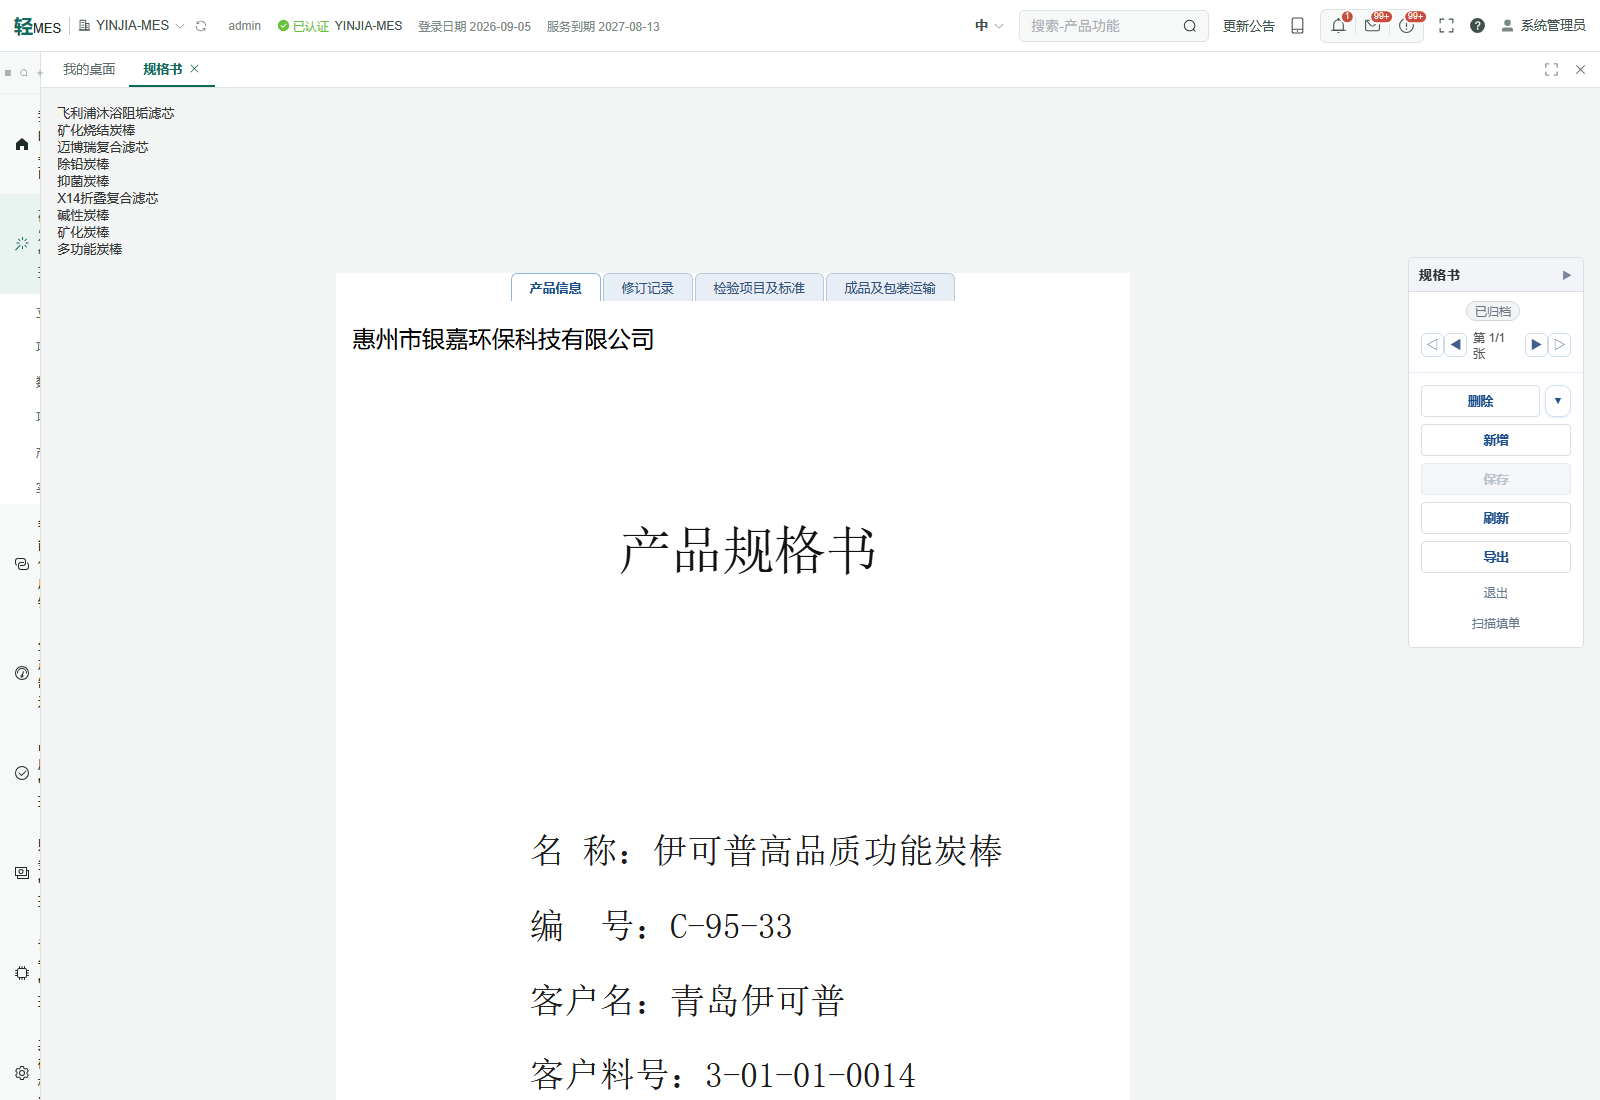
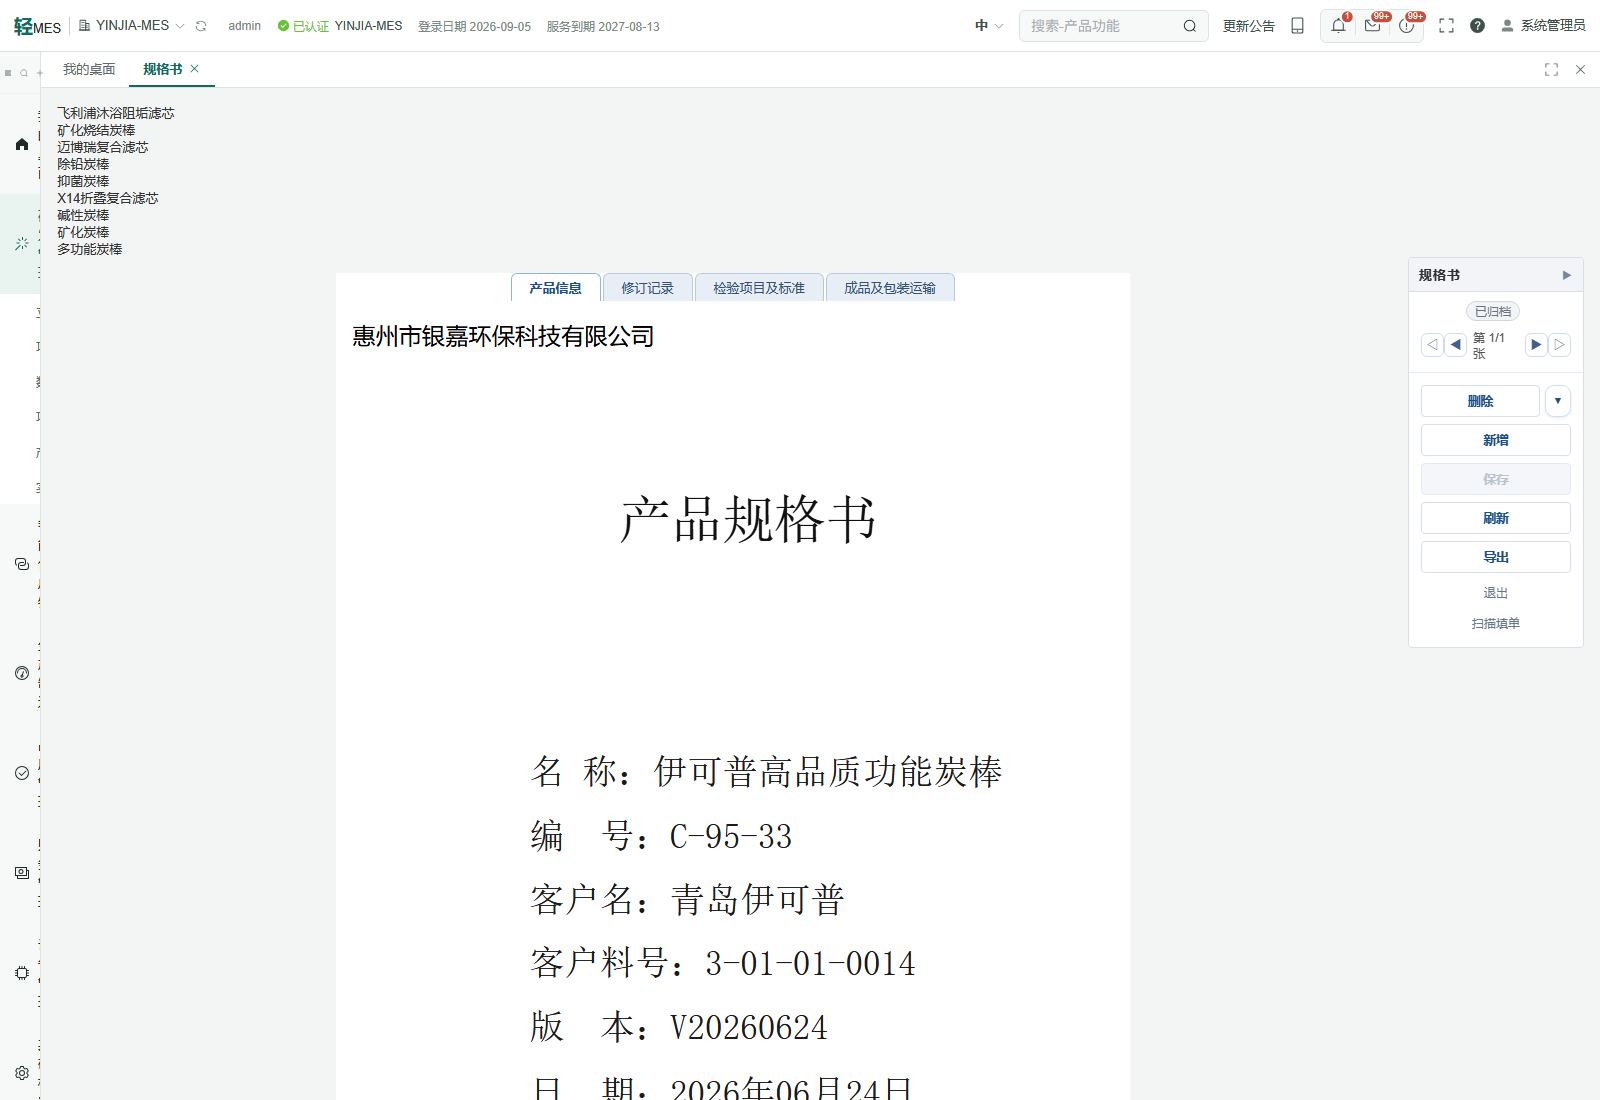
fix: 规格书封面打印不再溢出到第二页——封面高度改严格 A4(794×1123,纵向位置/行高用独立缩放 --cvy 压入 A4,横向字号/列宽仍按 --cok);签名表三框上下缩短(表头 59→44/值行 62→48 设计px,高 136→89px);打印整体 zoom 0.92(打印高 1033px≤一页 1062px);实测签名表底边 1037≤1123、一页装下

diff --git a/frontend/src/core/views/RecordSheetPanels.vue b/frontend/src/core/views/RecordSheetPanels.vue
@@ -27,7 +27,7 @@
              公司左上 | 大标题居中偏右(设计图标题中心 367.5/708)| 6 条字段线 | 窄居中签名表 -->
         <template v-if="cfg.cover">
           <tr><td :colspan="nCols" class="rsp-cover-td">
-            <div class="rsp-cover-page" :style="{ height: coverPageH + 'px', '--cok': coverK }">
+            <div class="rsp-cover-page" :style="{ height: coverPageH + 'px', '--cok': coverK, '--cvy': coverVy }">
               <div class="rsp-cover-company">惠州市银嘉环保科技有限公司</div>
               <div class="rsp-cover-title">{{ tt(cfg.staticTitle || '产品规格书') }}</div>
               <div v-for="(fd, fi) in cfg.cover.fields" :key="'cf' + fi" class="rsp-cover-line" :style="{ top: coverLineTop(fi) }">
@@ -545,12 +545,15 @@ const gridW = computed(() => effGrid.value.reduce((s, w) => s + w, 0))
 const COVER_W = 708
 const COVER_H = 1173
 const coverK = computed(() => gridW.value / COVER_W)
-const coverPageH = computed(() => Math.round(COVER_H * coverK.value))
+/** 封面高度 = 真实 A4(210×297mm):设计画布 1173/708≈1.657 比 A4(1.414)长,按画布高等比
+ *  会在打印时溢出到第二页;纵向位置/行高用独立缩放 coverVy 压入 A4 高度,横向(字号/列宽)仍用 coverK */
+const coverPageH = computed(() => Math.round(gridW.value * (297 / 210)))
+const coverVy = computed(() => coverPageH.value / COVER_H)
 /** 字段行顶部(设计 px,行高 46 → ink 中心 482.5/549.5/617/683/750/817.5 = 设计墨迹中心) */
 const COVER_LINE_TOPS = [460, 527, 594, 660, 727, 795]
 function coverLineTop(i) {
   const y = COVER_LINE_TOPS[i] ?? (COVER_LINE_TOPS[0] + i * 67)
-  return (y * coverK.value).toFixed(1) + 'px'
+  return (y * coverVy.value).toFixed(1) + 'px'
 }
 const COVER_SIGN_W = [143, 157, 172] // x 132..275..432..604 (设计图实测)
 const coverSignW = COVER_SIGN_W
@@ -1256,7 +1259,7 @@ function chartOf(dt) {
 .rsp-cover-company {
   position: absolute;
   left: calc(15px * var(--cok));
-  top: calc(15px * var(--cok));
+  top: calc(15px * var(--cvy));
   font-family: 'Microsoft YaHei', '微软雅黑', sans-serif;
   font-size: calc(20.7px * var(--cok));
   line-height: 1;
@@ -1268,7 +1271,7 @@ function chartOf(dt) {
   position: absolute;
   left: calc(367.5px * var(--cok));
   transform: translateX(-50%);
-  top: calc(191px * var(--cok));
+  top: calc(191px * var(--cvy));
   font-family: 'SimSun', 'Songti SC', serif;
   font-size: calc(47.3px * var(--cok));
   font-weight: 400;
@@ -1284,7 +1287,7 @@ function chartOf(dt) {
   left: calc(173px * var(--cok));
   display: flex;
   align-items: center;
-  height: calc(46px * var(--cok));
+  height: calc(46px * var(--cvy));
   font-family: 'SimSun', 'Songti SC', serif;
   font-size: calc(31.3px * var(--cok));
   color: #1a1a1a;
@@ -1297,12 +1300,12 @@ function chartOf(dt) {
 }
 .rsp-cover-input {
   flex: 1;
-  height: calc(46px * var(--cok));
+  height: calc(46px * var(--cvy));
 }
 .rsp-cover-input :deep(.el-input__inner) {
   font-size: calc(31.3px * var(--cok));
   font-family: 'SimSun', 'Songti SC', serif;
-  line-height: calc(46px * var(--cok));
+  line-height: calc(46px * var(--cvy));
   padding: 0;
 }
 .rsp-cover-val {
@@ -1312,7 +1315,7 @@ function chartOf(dt) {
 .rsp-sign-t {
   position: absolute;
   left: calc(132px * var(--cok));
-  top: calc(990px * var(--cok));
+  top: calc(990px * var(--cvy));
   width: calc(473px * var(--cok));
   border-collapse: collapse;
   table-layout: fixed;
@@ -1322,7 +1325,7 @@ function chartOf(dt) {
   border: calc(1.5px * var(--cok)) solid #000;
 }
 .rsp-sign-th {
-  height: calc(59px * var(--cok));
+  height: calc(44px * var(--cvy));
   font-size: calc(16px * var(--cok));
   font-weight: 400;
   font-family: 'SimSun', 'Songti SC', serif;
@@ -1332,7 +1335,7 @@ function chartOf(dt) {
   vertical-align: middle;
 }
 .rsp-sign-td {
-  height: calc(62px * var(--cok));
+  height: calc(48px * var(--cvy));
   padding: 0 8px;
   text-align: center;
   vertical-align: middle;
@@ -1507,6 +1510,8 @@ function chartOf(dt) {
     width: 100% !important;
     max-width: none !important;
     margin: 0 !important;
+    /* 打印适配:宽度 100%(≈733px@8mm页边距)下固定高度封面(1123px)会溢出到第二页,整体 0.92 缩入一页 */
+    zoom: 0.92 !important;
   }
   body.approval-printing .rsp-sheet,
   body.approval-printing .rsp-sheet * {
